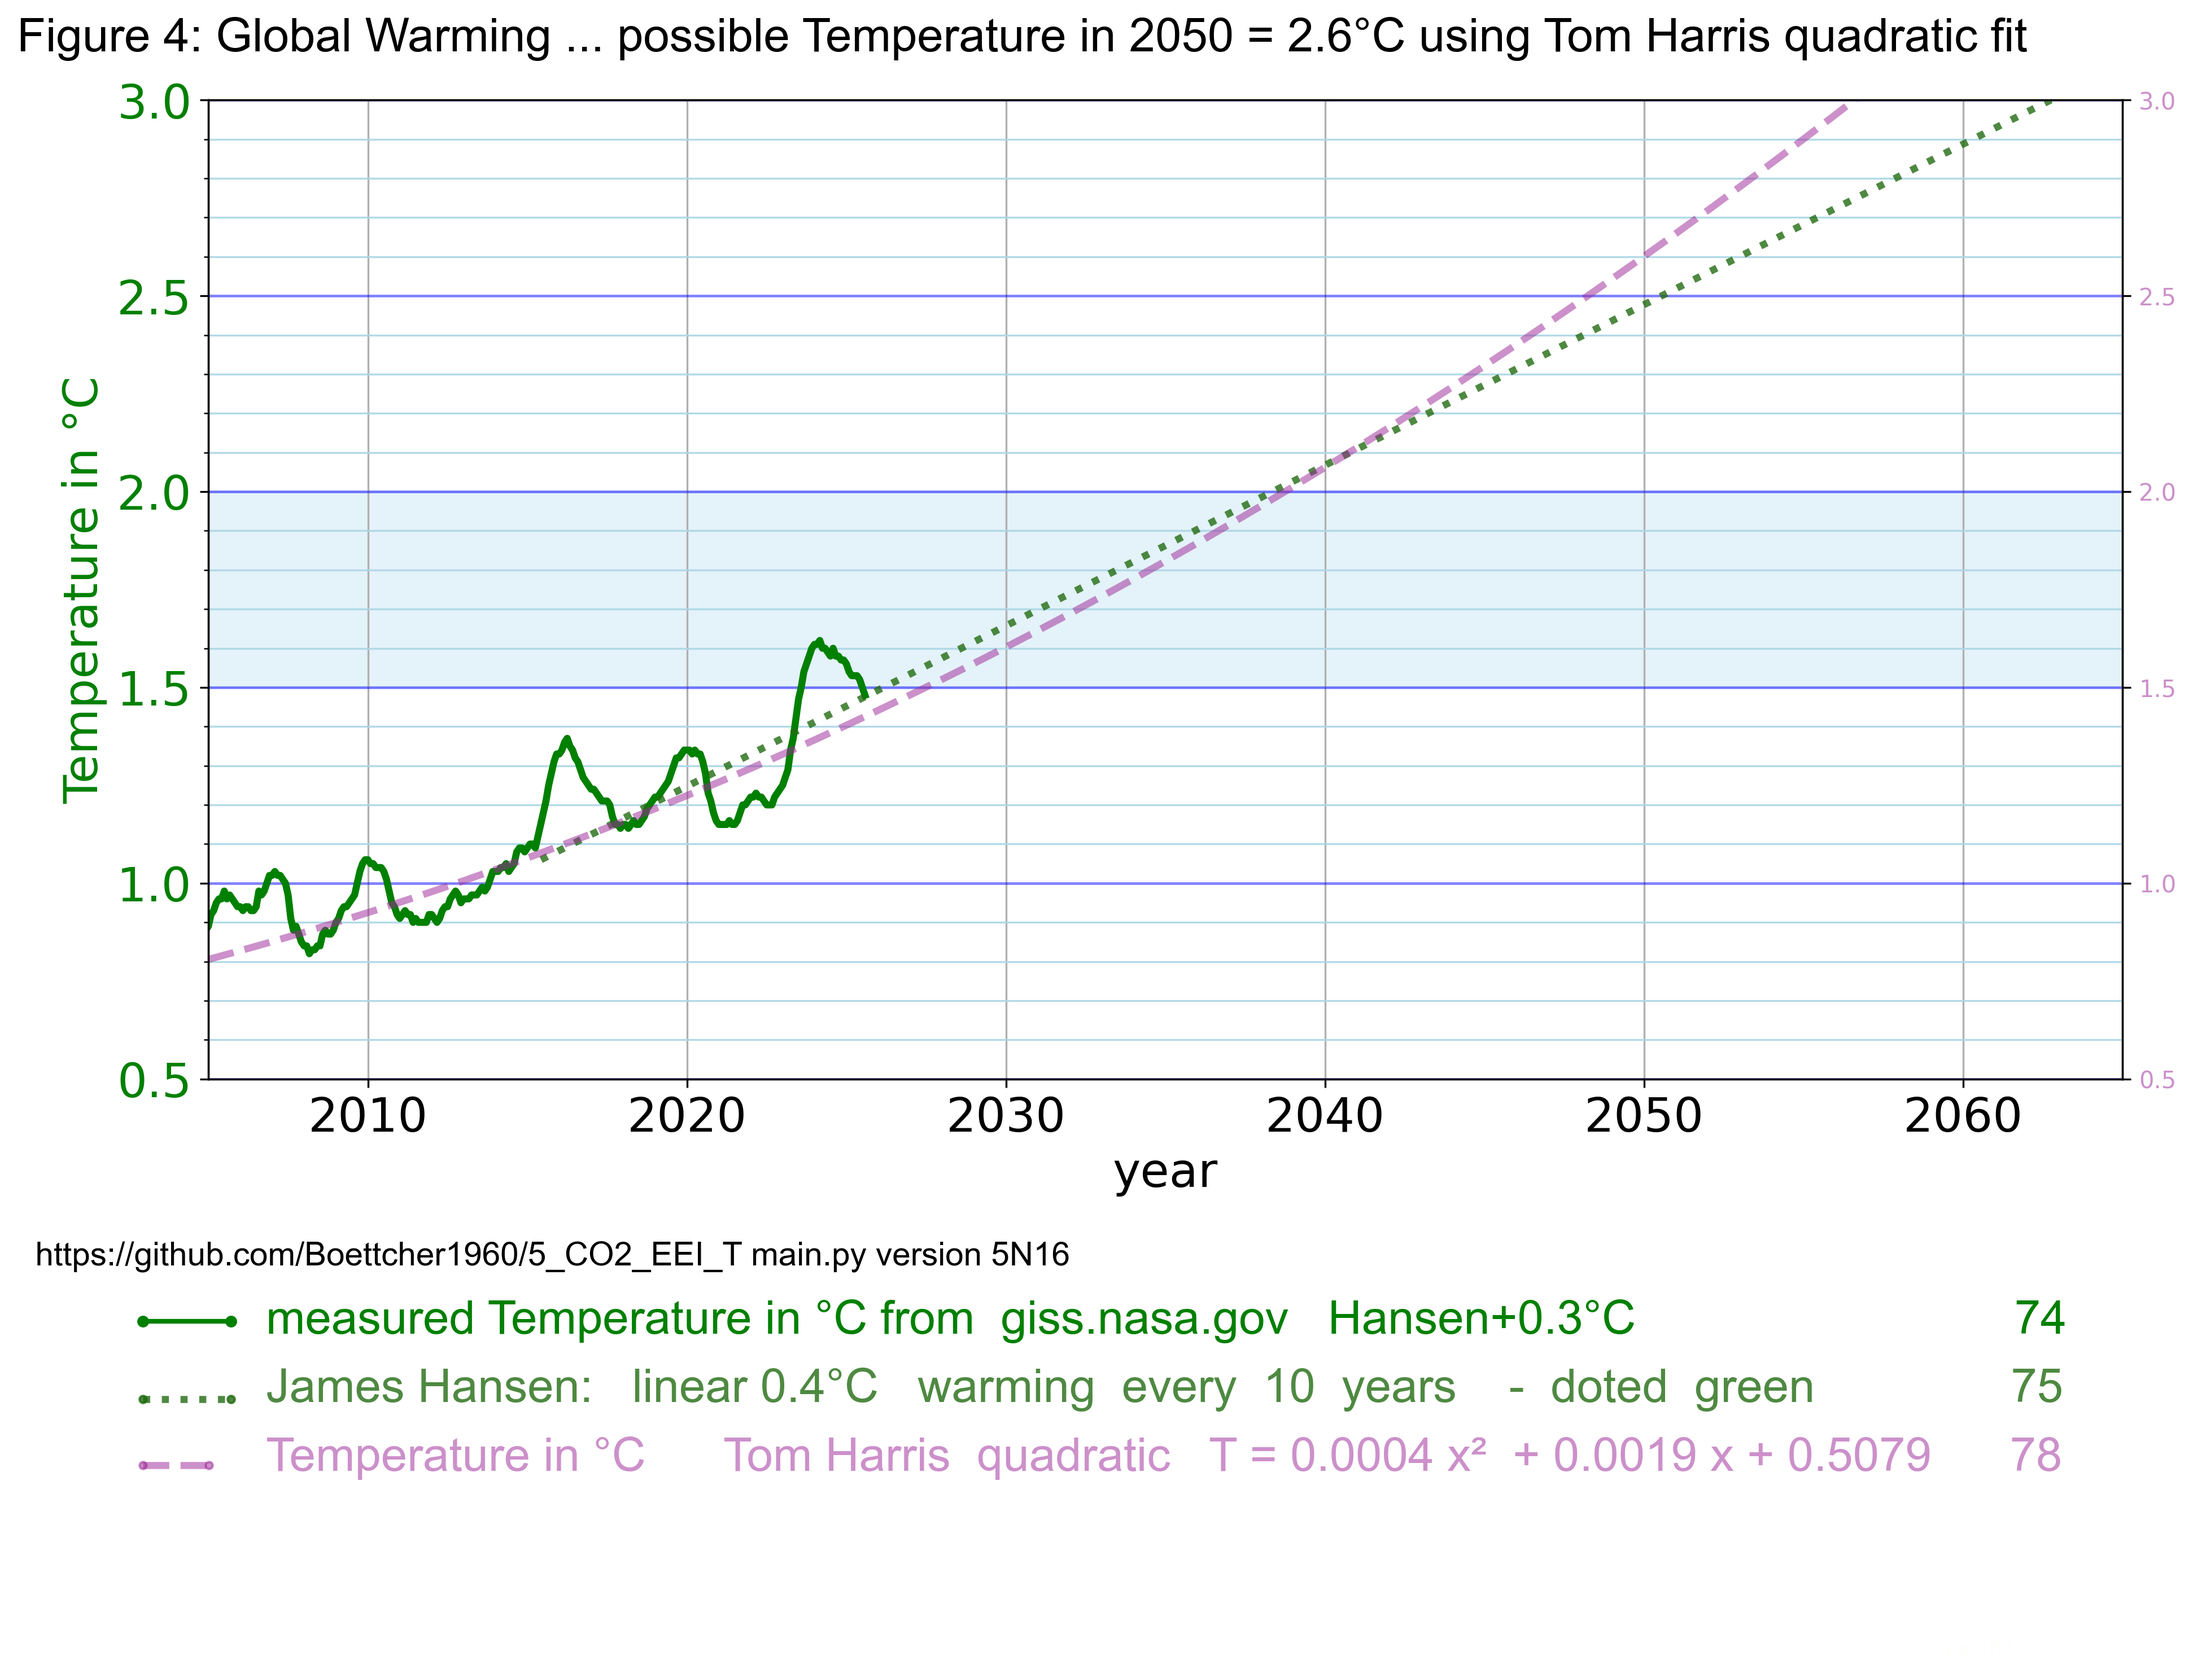
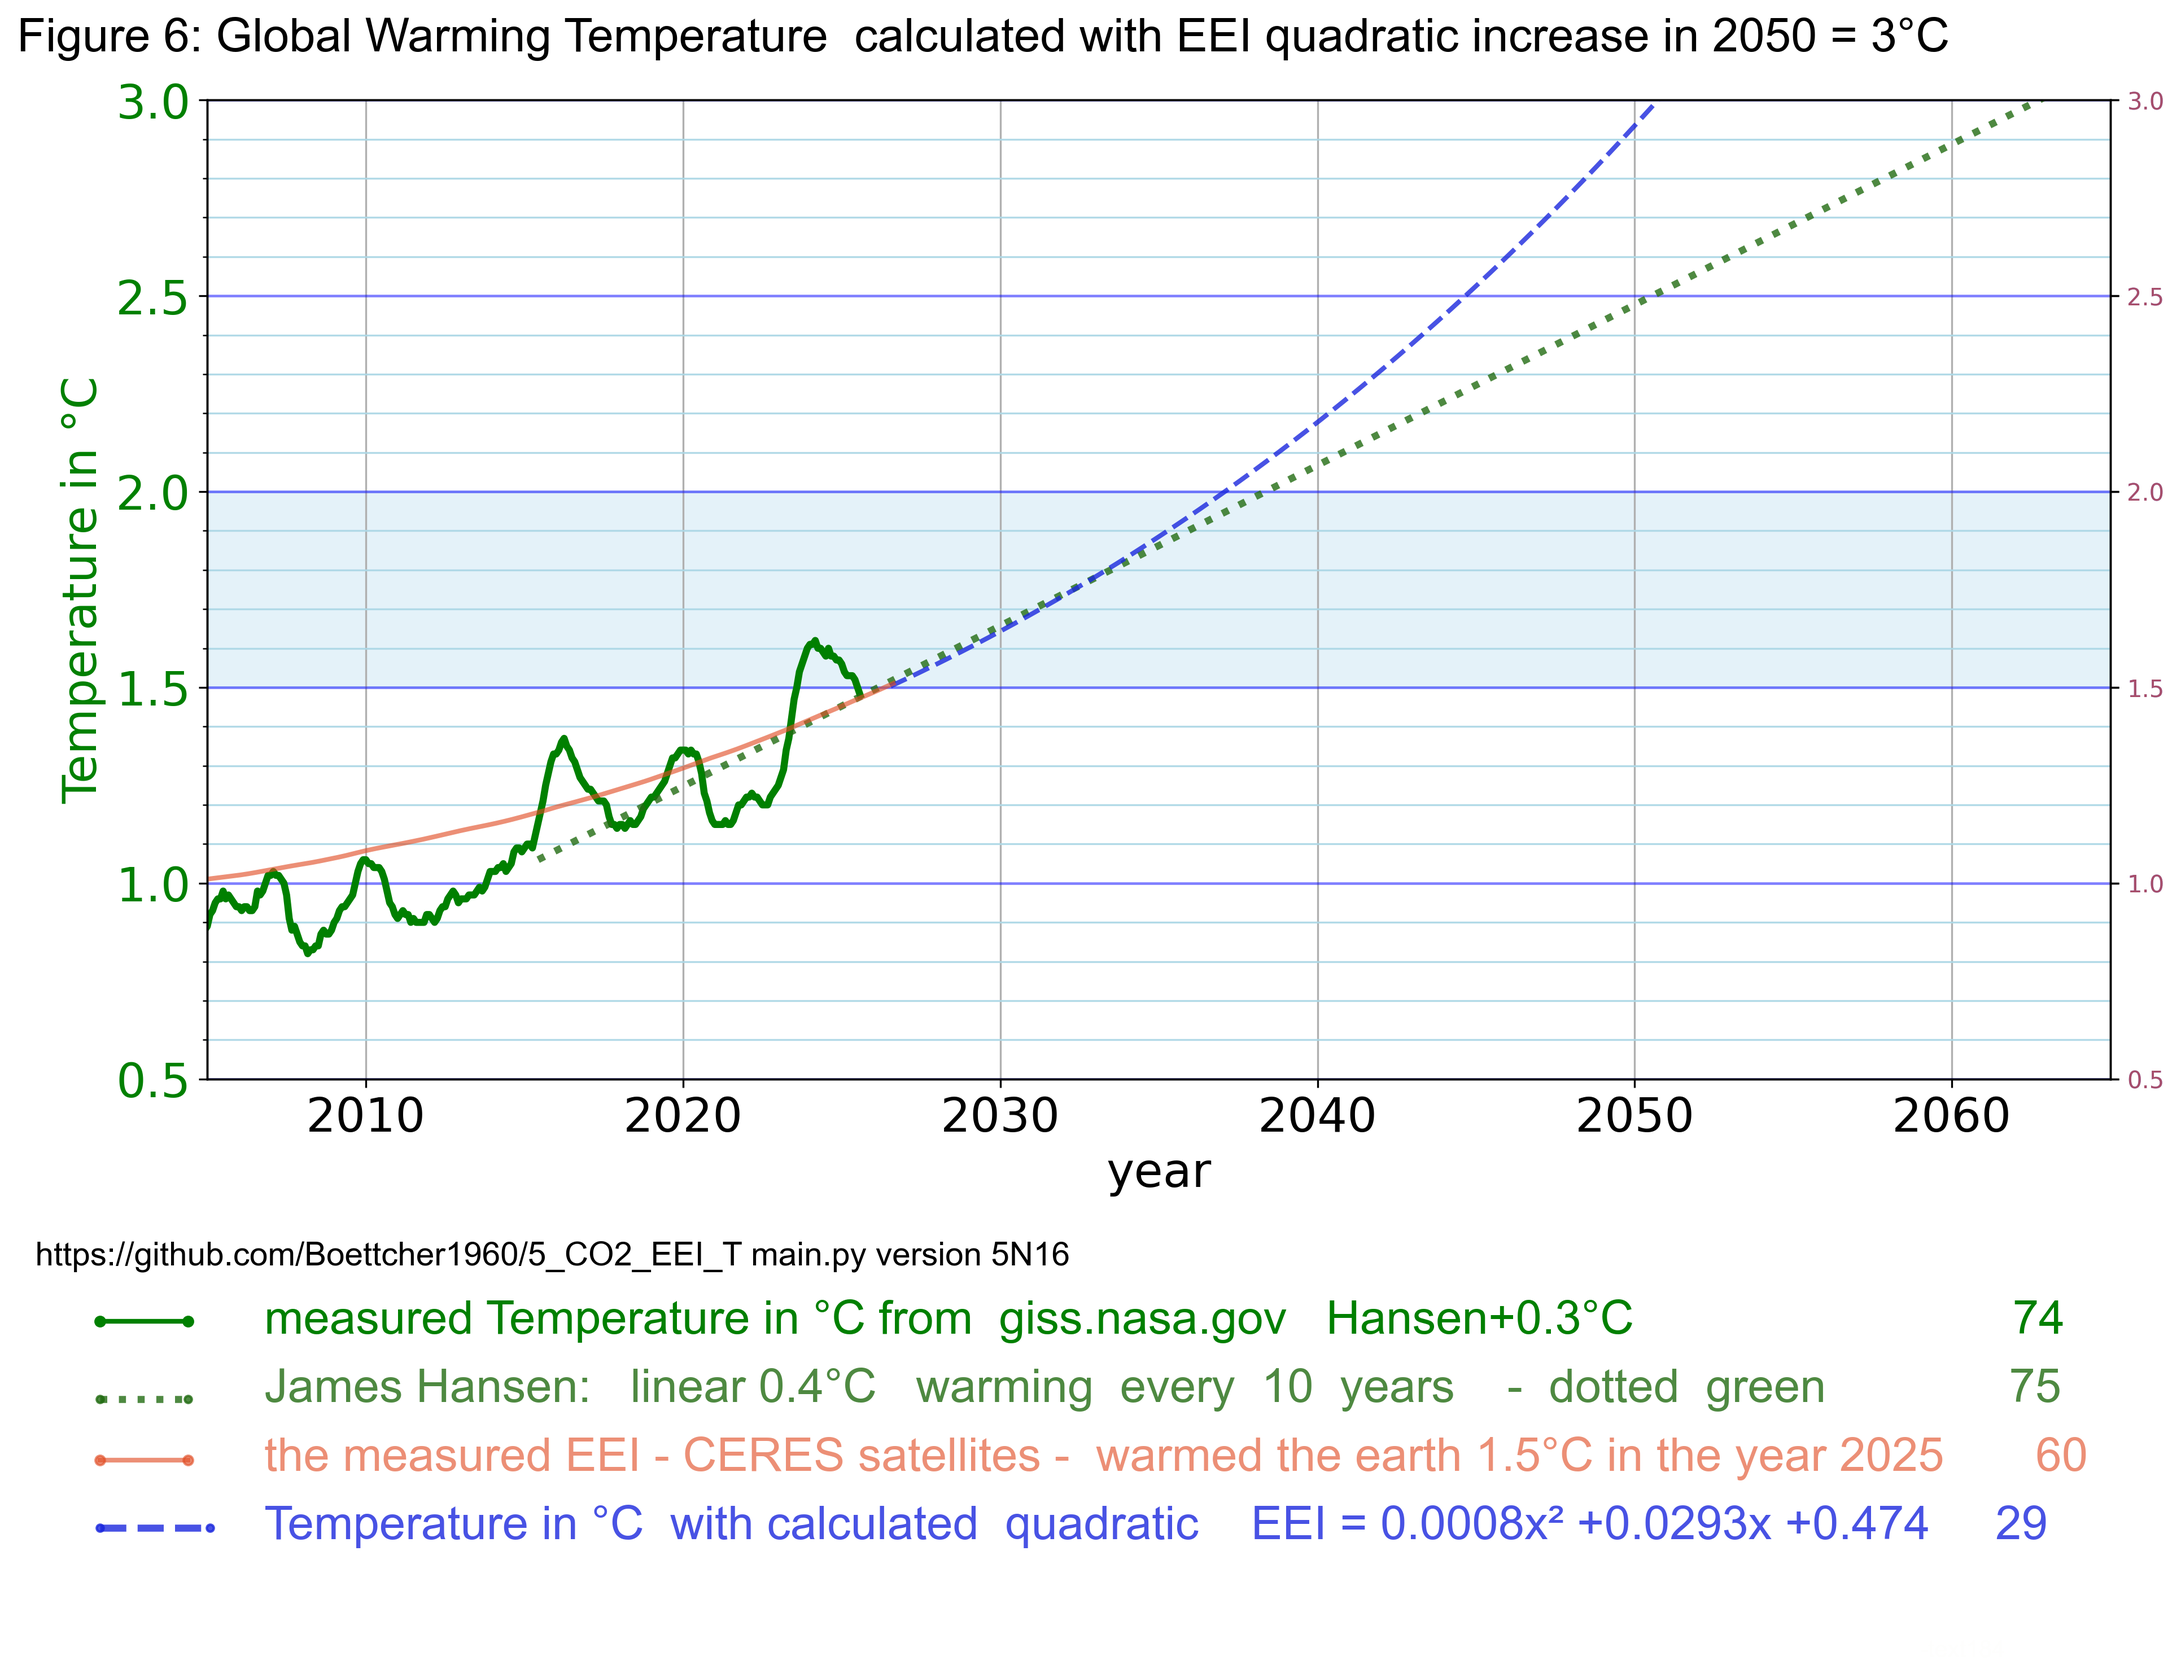
5N16

diff --git a/text.py b/text.py
@@ -25,7 +25,7 @@ from main import v
 # text_3_add_legend_line(fig, x1, x2, y, color, linewidth=2, marker="o", markersize=5): line48
 def text_3_add_legend_line(fig, x1, x2, y, color, linewidth=2, marker="o", markersize=4):
     """Add a legend line to the figure"""
-    line = Line2D([x1, x2+0.02], [y+ 0.003, y+ 0.003], transform=fig.transFigure,
+    line = Line2D([x1-0.02, x2], [y+ 0.003, y+ 0.003], transform=fig.transFigure,
                   marker=marker, markersize=markersize, color=color, linewidth=linewidth)
     fig.add_artist(line)
     return line
@@ -34,7 +34,7 @@ def text_add_dotted_line(fig, x1, x2, y, color, linewidth=2, marker="o", markers
     # line = Line2D([x1, x2+0.02], [y, y], transform=fig.transFigure,
     #              marker=marker, markersize=markersize, color=color, linewidth=linewidth)
     line = Line2D(
-           [x1, x2 + 0.02], [y , y],
+           [x1 -0.02, x2 ], [y , y],
            transform=fig.transFigure,
            marker=marker,
            markersize=markersize,
@@ -49,7 +49,7 @@ def text_add_dashed_line(fig, x1, x2, y, color, linewidth=2, marker="o", markers
     # line = Line2D([x1, x2+0.02], [y, y], transform=fig.transFigure,
     #              marker=marker, markersize=markersize, color=color, linewidth=linewidth)
     line = Line2D(
-           [x1, x2 + 0.01], [y , y ],
+           [x1-0.02, x2 + 0.01], [y , y ],
            transform=fig.transFigure,
            marker=marker,
            markersize=markersize,
@@ -562,7 +562,7 @@ def text_9_print_7_lines(fig, ax1, header_parameter):
         text_add_dotted_line(fig, lr2x1, lr2x2, lr5y, c28)
         text_4_add_text(ax1, tr2x, tr5y,  text28,   c28, trs)
     elif plot29_ETq == 5:    # 28.9.4
-        text_3_add_legend_line(fig, lr2x1, lr2x2, lr5y, c29)
+        text_add_dashed_line(fig, lr2x1, lr2x2, lr5y, c29)
         text_4_add_text(ax1, tr2x, tr5y,  text29,   c29, trs)
     elif plot30_c == 5:    # 29.6
         text_3_add_legend_line(fig, lr2x1, lr2x2, lr5y, c30)

diff --git a/config.py b/config.py
@@ -12,7 +12,7 @@
 # 8.3 print the left y axis 
 # line 2 defines the left Y axis. example
 
-figure100 = 103 # 101 , 102 , 103 , 104 , 105 , 106 , 107 , 108  0 means create no old figure 1= make old figuure
+figure100 = 105 # 101 , 102 , 103 , 104 , 105 , 106 , 107 , 108  0 means create no old figure 1= make old figuure
 figure202 = 0 # 1 2=new figure with era5 temperature and quadratic curve
 figure303 = 0 # 3 , 4 
               # for figure303 = 3 keep the x axis logarithmic and plot in Rovang_figure_1.png
@@ -581,26 +581,26 @@ elif figure100 == 105:
    text74 = "measured Temperature in °C from  giss.nasa.gov   Hansen+0.3°C                             74"  
    c74 =  "#2EDF1B90"
    c74 =  "green"
-   y_74min = 0  # for GIS Temperature 
+   y_74min = 0.5  # for GIS Temperature 
    y_74max = 3  # 1.6 for GIS Temperature 
 
    linear_41_75 = 3
    text75 = "James Hansen:   linear 0.4°C   warming  every  10  years    -  dotted  green              75"  # Added for linear_41_75
    c75 = "#226C12CC"
-   y_75min = 0 #  Temperature  
+   y_75min = 0.5 #  Temperature  
    y_75max = 3   #  Temperature 
 
    play_60_T_E = 48   # 2=no average 12 , 24 , 48 add 0.00208°C for every 1 W/m²/month    Piers Forster 1 W/m² in 1month warmes 0.00208°C 
    a60_start = 2005   # 2015 starting year of play_60_T_E
    a60_offset = 1.01 
    line4_play = 60
-   y_60min = 0  #  Temperature in °C y axis left mode
+   y_60min = 0.5  #  Temperature in °C y axis left mode
    y_60max = 3  #  Temperature in °C y axis left mode
 
    plot29_ETq = 5 #  EEI simulates T quadratic  add 0.00208°C for every 1 W/m²/month 
    a29_start = 2026.5   # 2015 starting year of play_60_T_E
    a29_offset = 1.5  
-   y_29min = 0  #  Temperature in °C y axis left mode
+   y_29min = 0.5  #  Temperature in °C y axis left mode
    y_29max = 3  #  Temperature in °C y axis left mode
 
    plot_T_78 = 0 # 3 , 4 , 5 Tom Harris

diff --git a/plotting.py b/plotting.py
@@ -952,7 +952,7 @@ def plot_9_create_all_plots(ax1, data):
          ax29.set_ylim(y_29min, y_29max)
          if print_debug > 9:
            print(f"plot_923: ax29 29.8 ={plot29_ETq}")
-         if plot29_ETq > 2 and line2_play != 29:
+         if plot29_ETq > 2 and figure100 < 99:
            plot8_right_y_axe_for_C_29( ax29 , 0 ) # 29.4 line 967
 
     if plot30_c > 0:
@@ -969,7 +969,7 @@ def plot_9_create_all_plots(ax1, data):
          ax30.set_ylim(y_30min, y_30max)
          if print_debug > 9:
            print(f"plot_923: ax30 30.8 ={plot30_c}")
-         if plot30_c > 2 and line2_play != 30:
+         if plot30_c > 2 and figure100 < 99:
            plot8_right_y_axe_for_C_30( ax30 , 0 ) # 30.4 line 967
 
 
